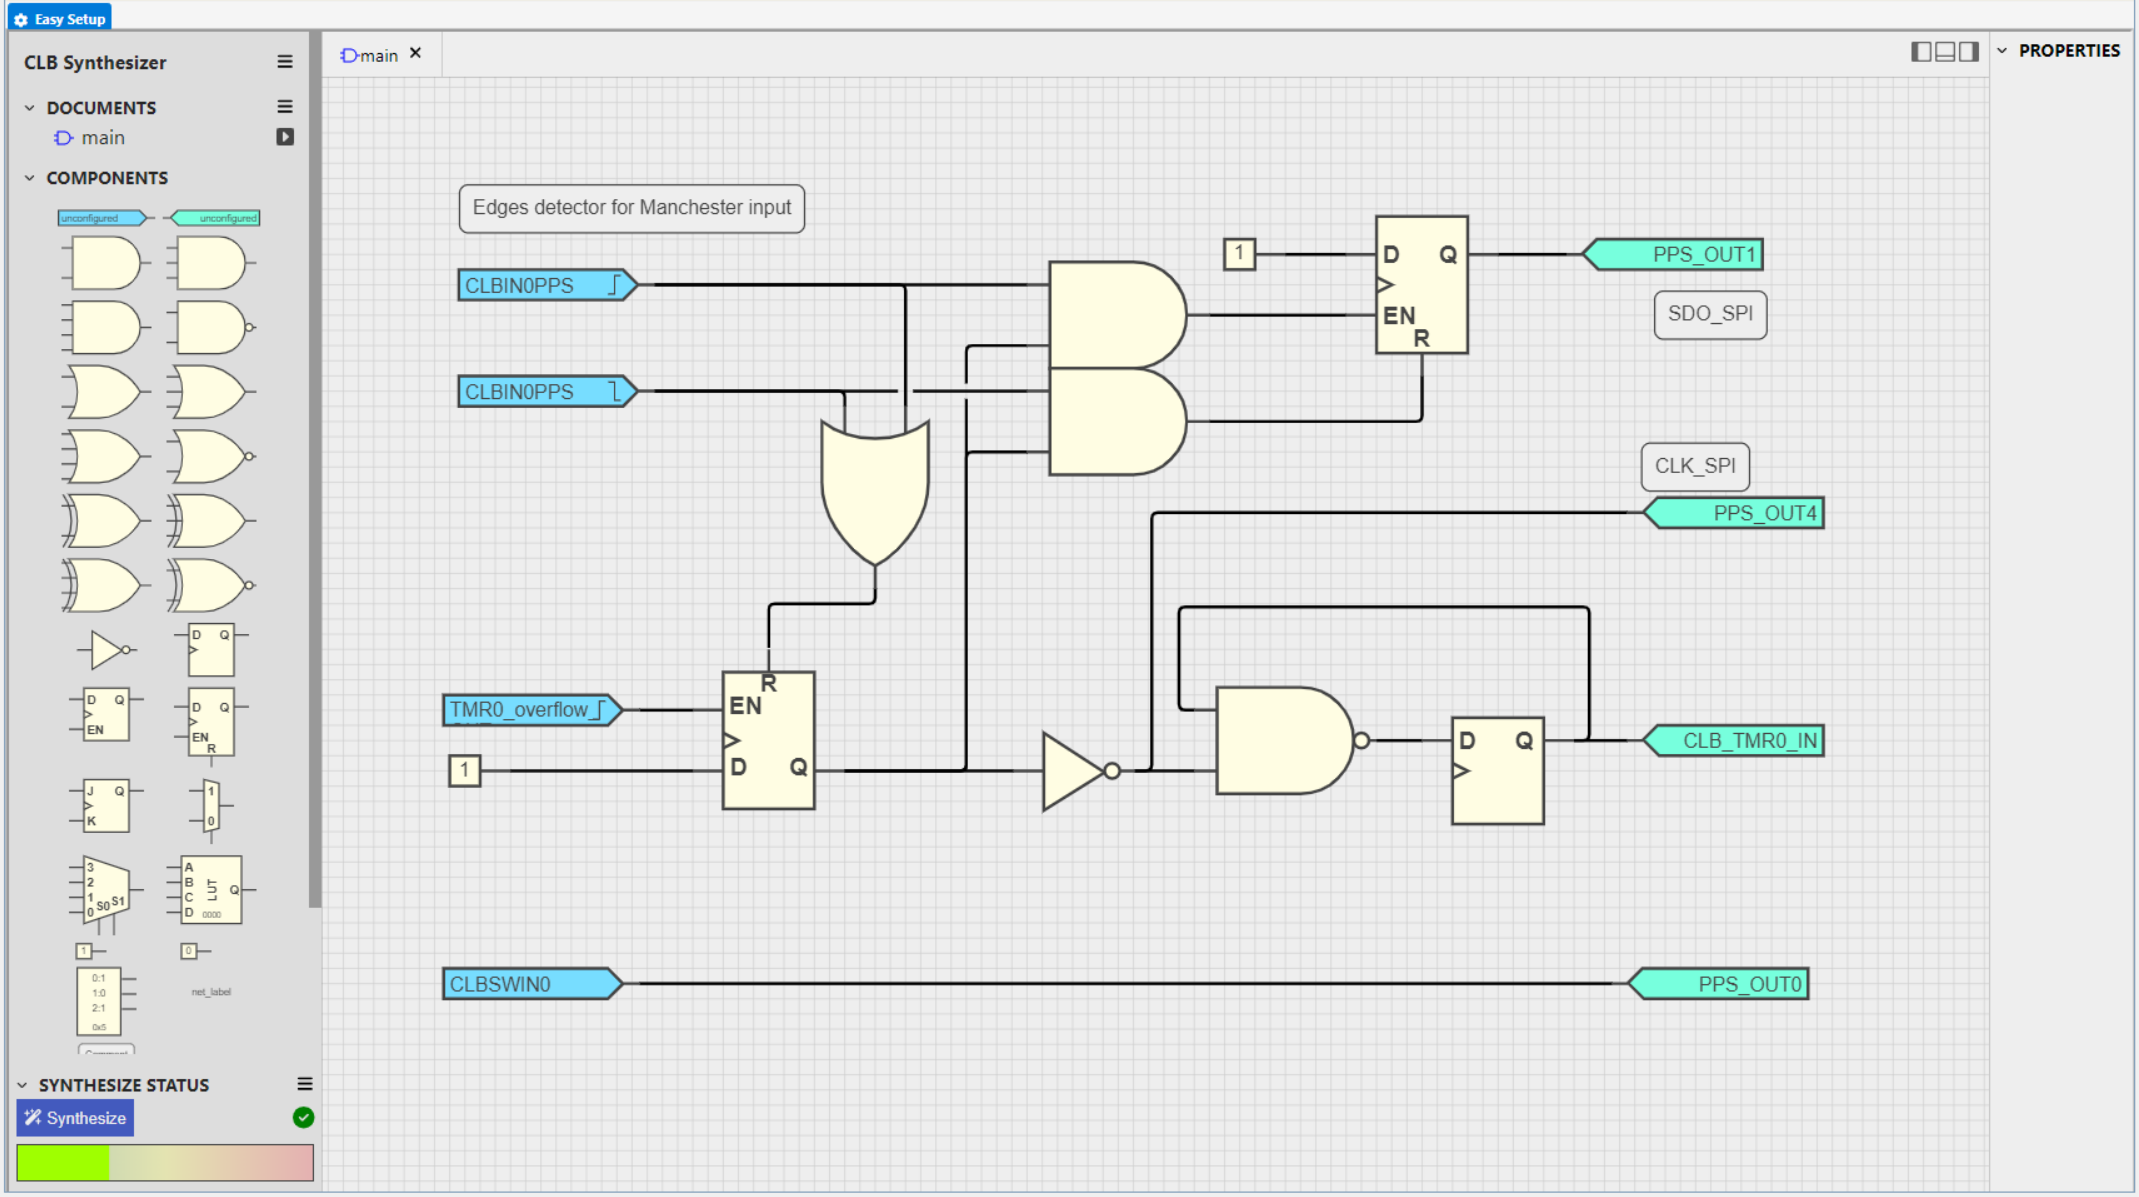
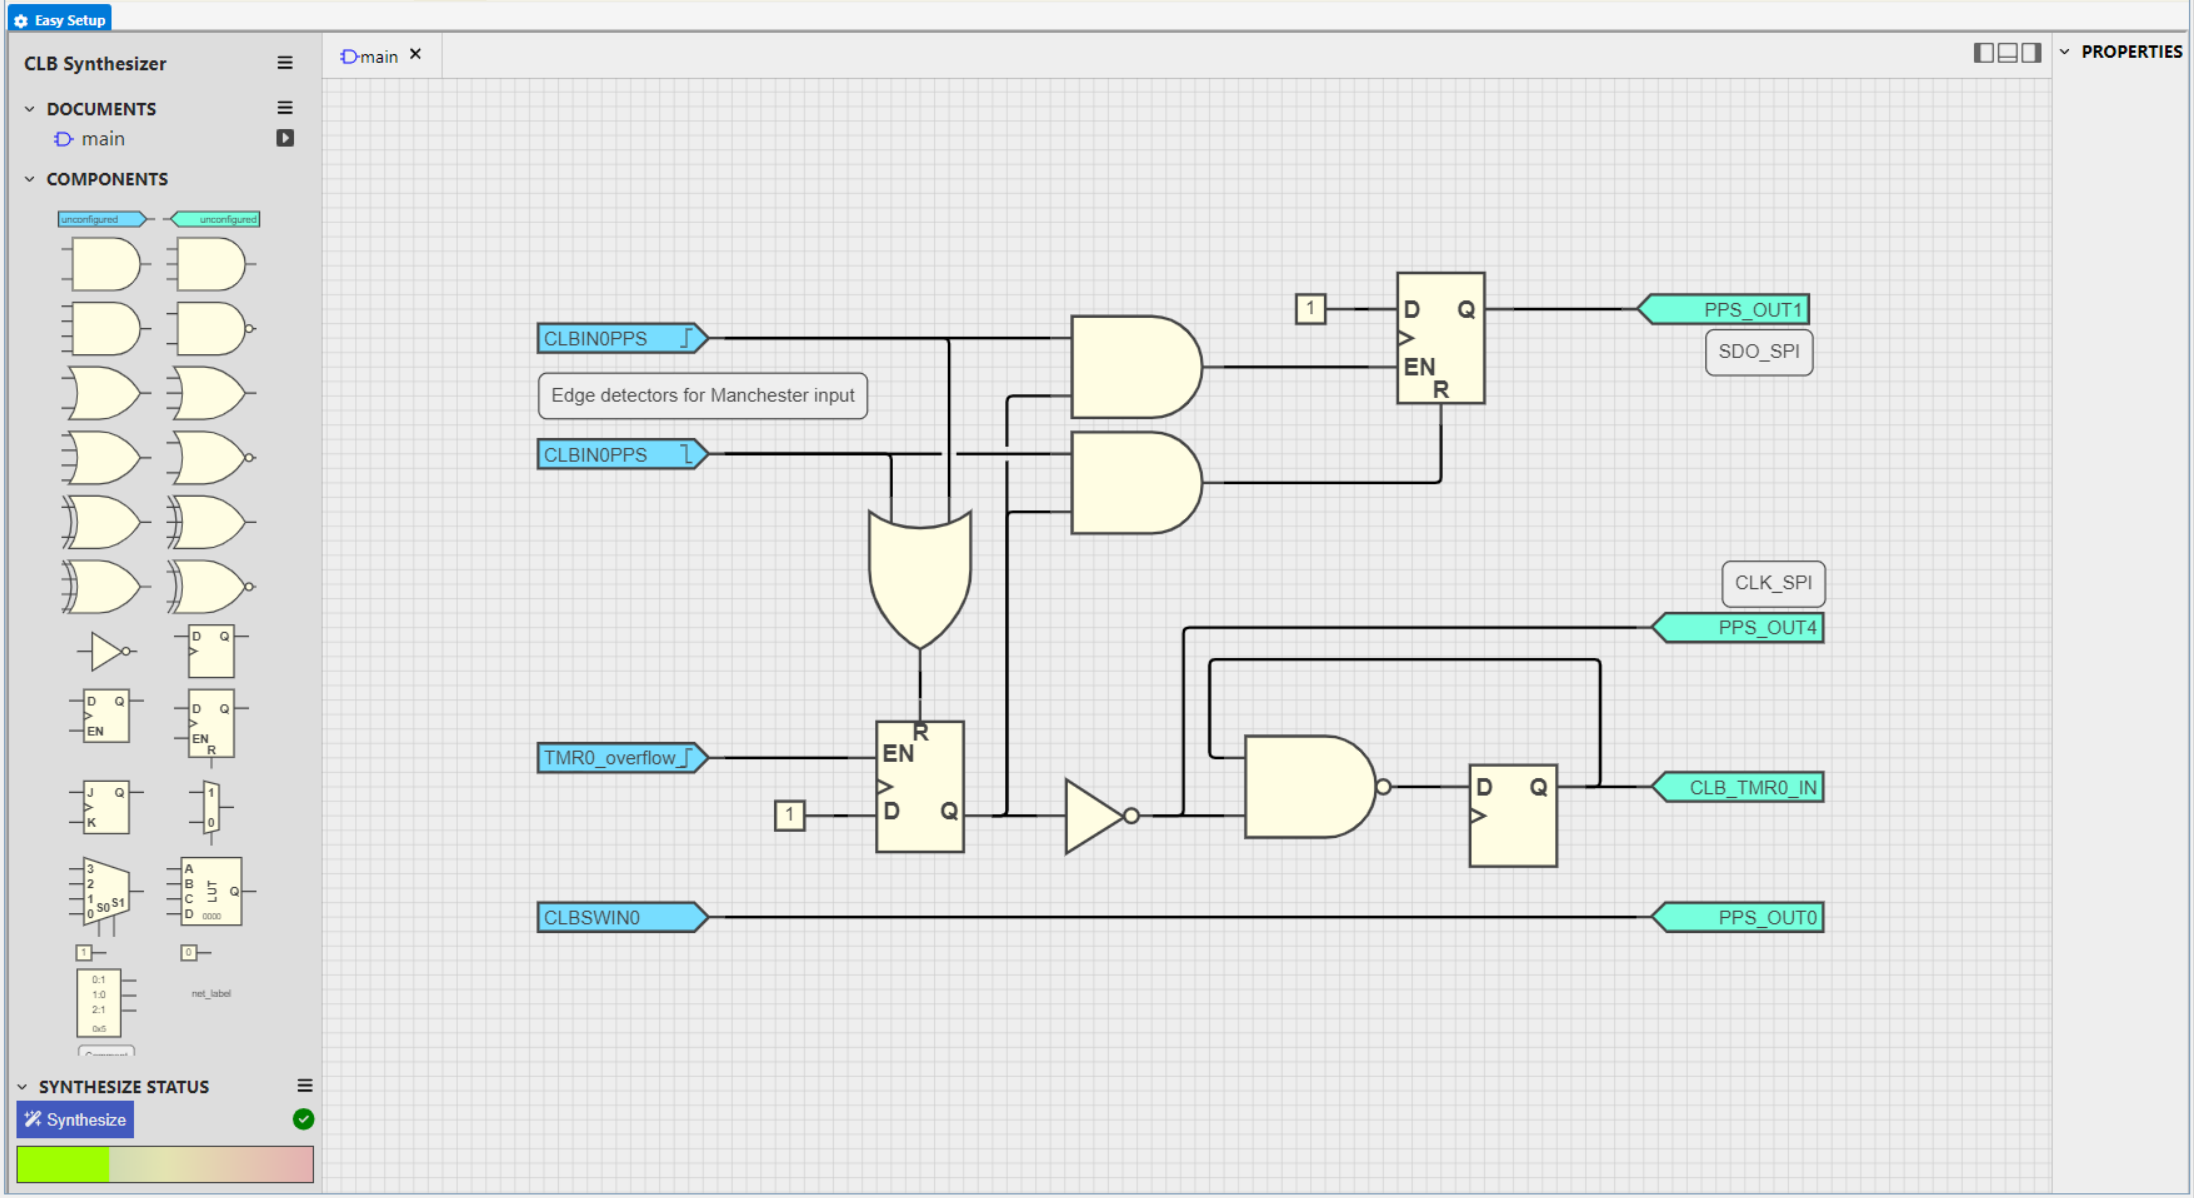
MPAE-17745 Detailed the Concept section

Changed region(s): [[0.1851, 0.1546, 0.864, 0.8346], [0.0, 0.0, 1.0, 1.0], [0.216, 0.1546, 0.3703, 0.1855]]

diff --git a/README.md b/README.md
@@ -4,7 +4,7 @@
 
 # Manchester Decoder with Configurable Bitrate Based on CLB Using the PIC16F13145 Microcontroller with MCC Melody
 
-The repository contains the Manchester Decoder, an MPLAB® X project, using Core Independent Peripherals (CIPs) by following the interaction between Custom Logic Block (CLB), Serial Peripheral Interface (SPI) and Timer (TMR0) peripherals. 
+The repository contains a Manchester Decoder hardware implementation using the Configurable Logic Block (CLB). It uses other peripherals to support the CLB including Serial Peripheral Interface (SPI) and Timer (TMR0) peripherals.
 
 The CLB peripheral is a collection of logic elements that can be programmed to perform a wide variety of digital logic functions. The logic function may be completely combinatorial, sequential, or a combination of the two, enabling users to incorporate hardware-based custom logic into their applications.
 
@@ -25,7 +25,7 @@ More details and code examples on the PIC16F13145 can be found at the following 
 
 ## Software Used
 
-- [MPLAB X IDE v6.20 or newer](https://www.microchip.com/en-us/tools-resources/develop/mplab-x-ide?utm_source=GitHub&utm_medium=TextLink&utm_campaign=MCU8_MMTCha_PIC16F13145&utm_content=pic16f13145-manchester-decoder-mplab-mcc&utm_bu=MCU08)
+- [MPLAB® X IDE v6.20 or newer](https://www.microchip.com/en-us/tools-resources/develop/mplab-x-ide?utm_source=GitHub&utm_medium=TextLink&utm_campaign=MCU8_MMTCha_PIC16F13145&utm_content=pic16f13145-manchester-decoder-mplab-mcc&utm_bu=MCU08)
 - [MPLAB® XC8 v2.46 or newer](https://www.microchip.com/en-us/tools-resources/develop/mplab-xc-compilers?utm_source=GitHub&utm_medium=TextLink&utm_campaign=MCU8_MMTCha_PIC16F13145&utm_content=pic16f13145-manchester-decoder-mplab-mcc&utm_bu=MCU08)
 - [PIC16F1xxxx_DFP v1.25.390 or newer](https://packs.download.microchip.com/)
 
@@ -46,11 +46,18 @@ This project is a CIP implementation of a Manchester decoder with configurable b
 
 <br><img src="images/clb_decoder_circuit.PNG" width="1000">
 
-The decoder concept is using the transition that occurs in the middle of each bit (clock edges). This implementation assumes that first transition following an idle period is a clock edge, and not a data edge. The easiest way to ensure this is to use the start and stop bytes from the encoded data frames. 
-
-The encoded data is received through a single data wire on the RA2 pin. A falling edge (logic '0') will reset a flip-flop, while a rising edge (logic '1') will set the same flip-flop. A timer peripheral (TMR0) is used to invalidate any edge that appears in a period smaller than 3/4 of the bitrate period. The bitrate of the decoder is configurable by modifying the period of the validation timer.
-
+The current implementation uses the transitions that occur is the middle of each Manchester-encoded data bit (clock edges) to decode the incomming data stream. For correct decoder synchronization, the first edge after an idle period must be a clock edge. This is ensured by the usage of start and stop bytes in the data frames (software protocol).
+ 
+The encoded data is received through a wire on the RA2 pin. The rising and falling edges of the incoming signal are detected using CLB edge detectors. The detected edges, combined through an OR gate, are used to reset a D flip-flop that creates a validation time slot together with a timer peripheral (TMR0). The TMR0 overflow, configured to 3/4 of the Manchester bitrate, sets the flip-flop used for time slot validation. By using this validation mechanism, only the clock edges are enabled to generate the decoded data stream (SDO_SPI signal on PPS_OUT1) through two AND gates, as below:
+- any edge that appears before 3/4 of the bit period is ignored
+- a falling edge that appears after 3/4 of the bit period will reset the output flip-flop (logic `0`)
+- a rising edge that appears after 3/4 of the bit period will set the output flip-flop (logic `1`)  
+ 
 The decoded data stream is sent via the SPI interface to an SPI Client (MSSP1 in this example). The SPI data is the output of the flip-flop, while the validation window is used as the SPI clock. The decoded data is further transmitted via the serial communication (UART).
+ 
+Note: The TMR0 overflow is proportional with the Manchester-encoded bitrate. To change the bitrate only the value of the `MANCHESTER_BAUD_RATE` macro must be updated, as for example:
+ 
+`#define MANCHESTER_BAUD_RATE 625000`
  
 ## Setup 
 
@@ -161,10 +168,11 @@ This chapter demonstrates how to use the MPLAB X IDE to program a PIC® device w
     <br>Right click the `Example_Project.X` project and select **Clean and Build**.
     <br><img src="images/Program_Clean_and_Build.png" width="600">
 
-5.  Select **PICxxxxx Curiosity Nano** in the Connected Hardware Tool section of the project settings:
+5.  Select PICxxxxx Curiosity Nano in the Connected Hardware Tool section of the project settings:
     <br>Right click the project and click **Properties**.
     <br>Click the arrow under the Connected Hardware Tool.
-    <br>Select **PICxxxxx Curiosity Nano** (click the **SN**), click **Apply** and then click **OK**:
+    <br>Select PICxxxxx Curiosity Nano by clicking on the SN.
+    <br>Click **Apply** and then **OK**.
     <br><img src="images/Program_Tool_Selection.png" width="600">
 
 6.  Program the project to the board.
